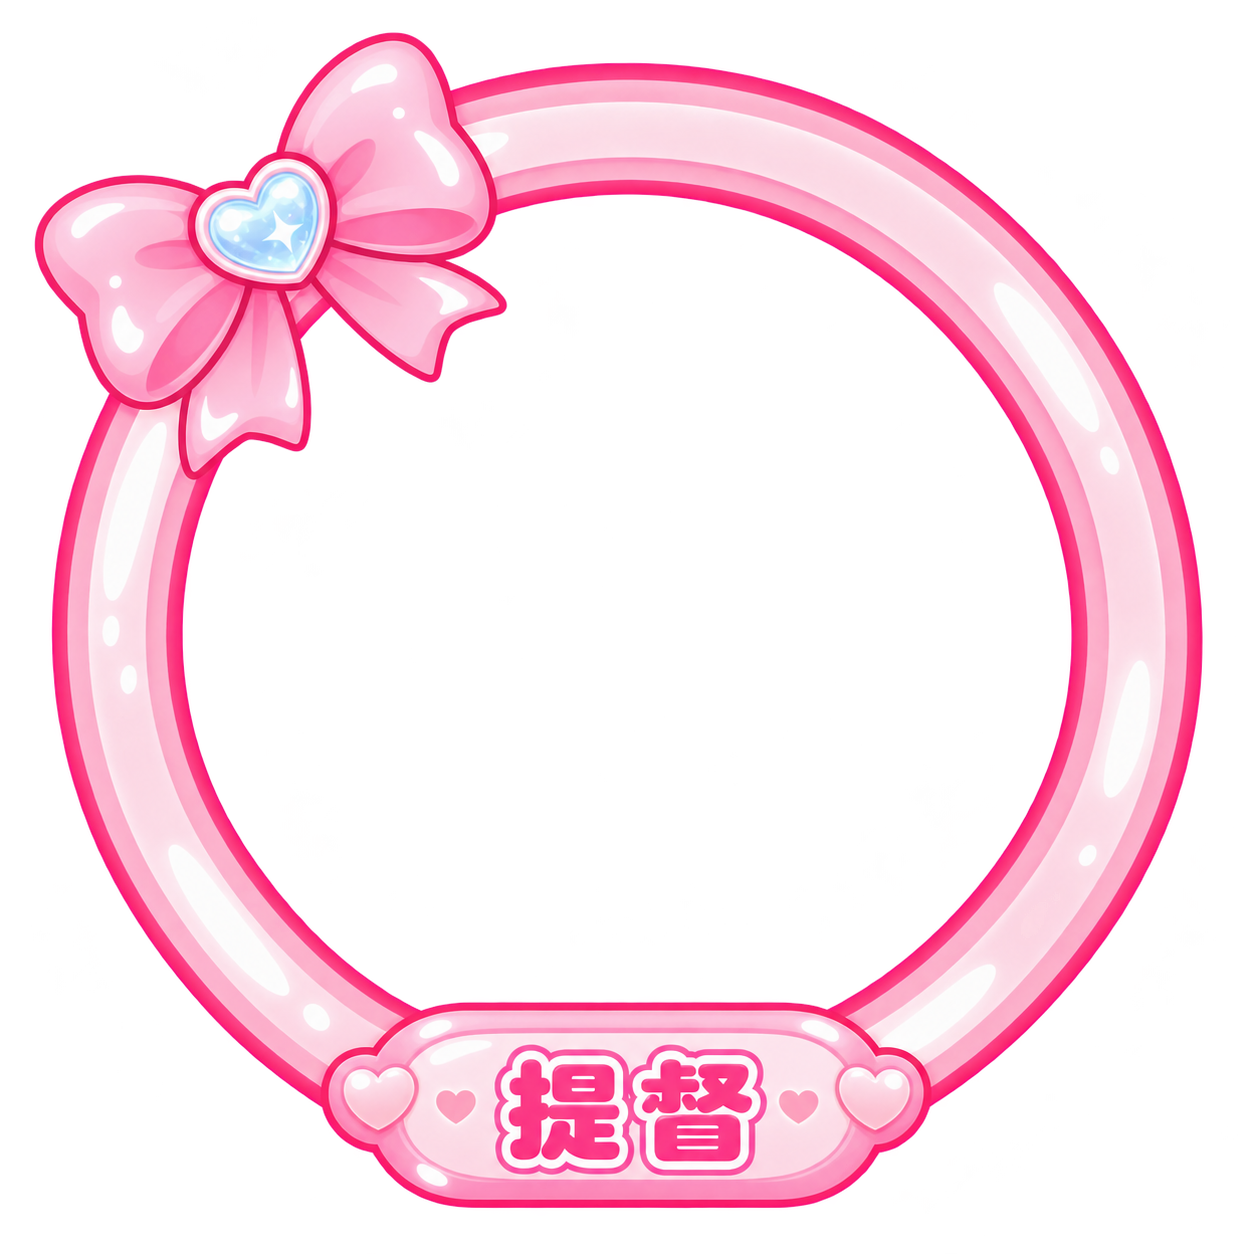
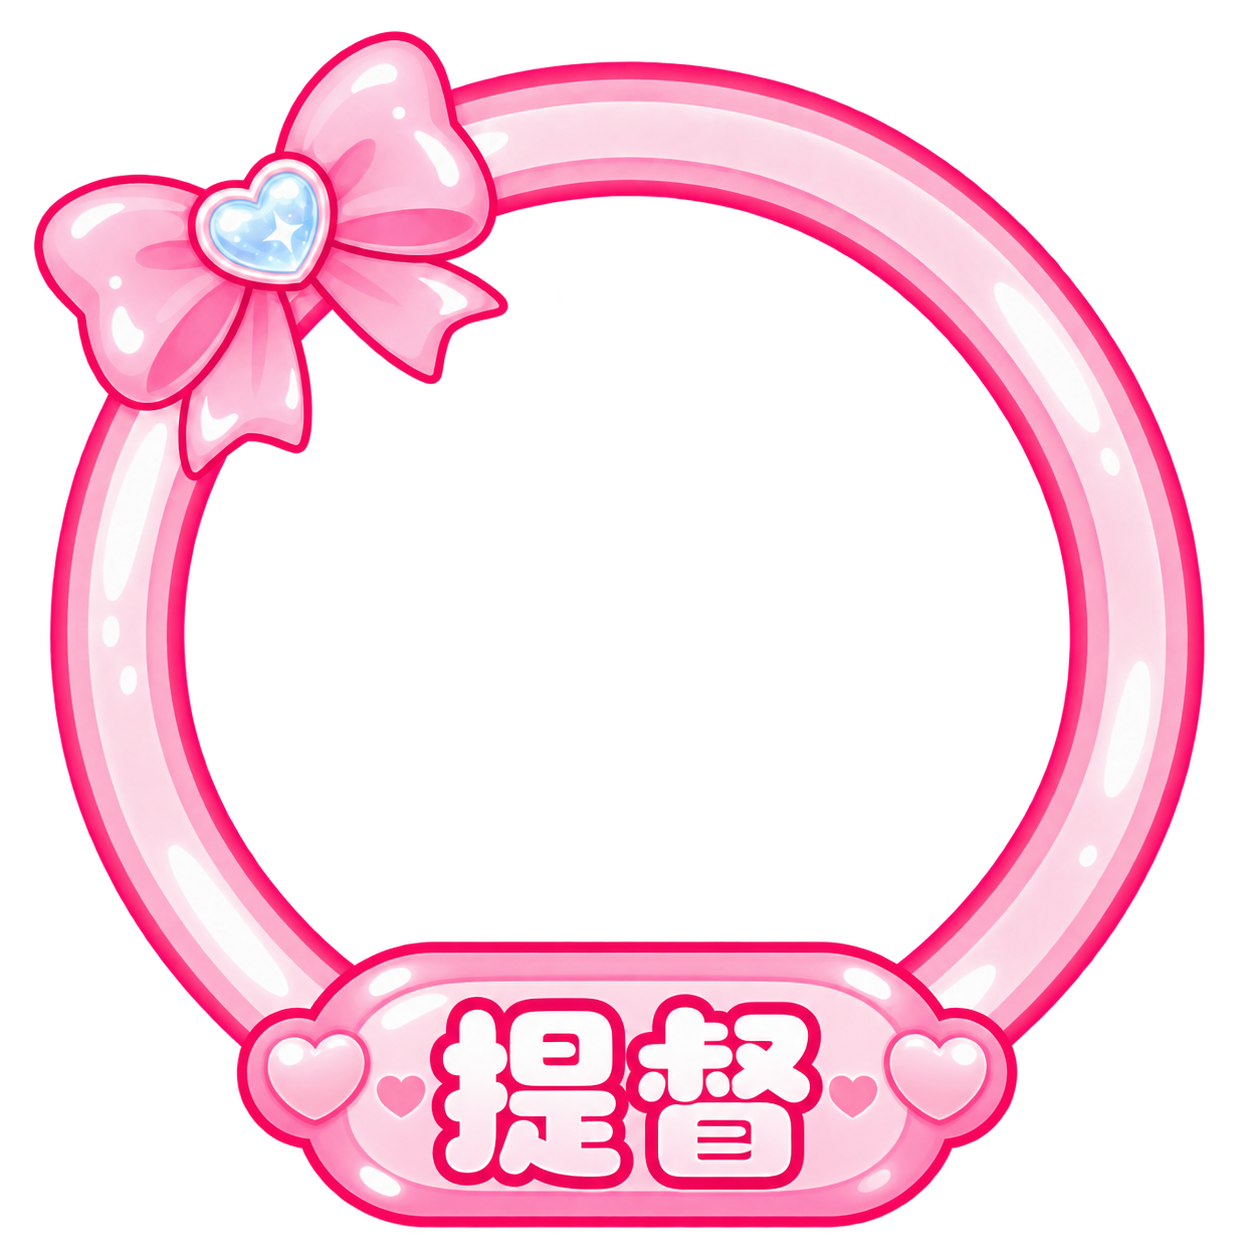
feat: 新增远程模版 dudu-pink-dolphin.css（脱敏版），字体换为荆南圆体
- 新增 dudu-pink-dolphin.css：粉色弹幕气泡远程模版，含顶部用户名名牌、
  按大航海等级切换的头像装饰框、弹幕进入动效、用户名统一配色
- 素材引用改为相对路径（脱敏）；发布用的回填版存于 .git-publish/（已 gitignore）
- 字体由 ZCOOL KuaiLe 换为荆南圆体（ZeoSeven 在线分包），补充日文回退
- 更新 jz/td/zd 头像装饰框
- README 同步字体说明

diff --git a/dudu-pink-dolphin.css b/dudu-pink-dolphin.css
@@ -1,6 +1,17 @@
+/*
+  @title        海豚也是豚
+  @description  粉色弹幕气泡：自适应正文框 + 顶部用户名名牌，荆南圆体，中英日字体，蝴蝶结/珠链/糖果角标，按大航海等级切换头像装饰框
+  @author       JoJoWu
+  @updated      September 09, 2026, 10:20:44 PM GMT+8
+  @version      1.0.14
+*/
+
+/* 引入荆南圆体（ZeoSeven Fonts 在线分包，SIL OFL 1.1） */
+/* @import 不要嵌套在 @layer 层叠层内 */
 @import url("https://fontsapi.zeoseven.com/850/main/result.css");
+
 /* ===== 留白微调：数值越小，文字越靠近边框 ===== */
-@layer custom-css {
+@layer remote-css {
   .event--message {
     --nameplate-scale: 1; /* 名牌及名字同步缩放：0.9缩小，1.1放大 */
     --nameplate-width: 210px; /* 名牌基础宽度，长名字省略 */
@@ -11,14 +22,15 @@
     --avatar-offset-y: 12px; /* 头像距本条顶部 */
     --nameplate-offset-y: 4px; /* 名牌上下偏移：正数向下，负数向上 */
     --text-space-top: 35px;    /* 正文上方留白 */
-    --text-space-bottom: 25px; /* 正文下方留白 */
-    --text-space-left: 54px;   /* 正文左侧留白 */
-    --text-space-right: 54px;  /* 正文右侧留白 */
+    --text-space-bottom: 30px; /* 正文下方留白 */
+    --text-space-left: 30px;   /* 正文左侧留白 */
+    --text-space-right: 30px;  /* 正文右侧留白 */
     --text-line-height: 1.45;  /* 多行文字行距，无单位 */
   }
 }
-/* 仅装饰弹幕正文。请用本文件替换旧版 CSS。 */
-@layer custom-css {
+
+/* 仅装饰弹幕正文。 */
+@layer remote-css {
   .event--message > .message {
     --bubble-radius: 32px;
     --bubble-border: 9px;
@@ -44,7 +56,8 @@
     box-shadow: 0 0 0 1px #ffffffdd, 0 2px 4px #bb3e6b2e,
       inset 0 0 0 2px #ffdbe9cc, inset 0 0 0 3px #ffffffe6,
       inset 3px 0 5px #ffffff88, inset 0 -3px 4px #db528233 !important;
-    color: #795064;
+    /* 弹幕正文字色：统一使用平台 SCAS 色盘 pink-500；兜底值 #f6339a 防止变量未定义时塌成默认色 */
+    color: var(--color-pink-500, #f6339a);
     font-family: "KeinannMaruPOP", "Microsoft YaHei", "Yu Gothic", "Meiryo", sans-serif !important;
     font-weight: 400;
     line-height: var(--text-line-height);
@@ -87,14 +100,8 @@
   }
 }
 
-
-
-
-
-
-
 /* 名牌绑定真实用户名，定位在正文框上沿中央 */
-@layer custom-css {
+@layer remote-css {
   .event--message > .meta {
     position: relative;
     display: flex;
@@ -134,7 +141,8 @@
     overflow: hidden;
     white-space: nowrap;
     text-overflow: ellipsis;
-    color: #a65379 !important;
+    /* 用户名颜色：四档统一，由下方 .event--message 上的 --dudu-name 定义 */
+    color: var(--dudu-name, #a65379) !important;
     font-weight: 400;
     line-height: 1.3;
   }
@@ -156,8 +164,9 @@
   .event--message > .meta > .username::before { left: -9px; }
   .event--message > .meta > .username::after { right: -9px; }
 }
+
 /* 左头像、右正文；1=总督，2=提督，3=舰长，0=水友 */
-@layer custom-css {
+@layer remote-css {
   .event--message {
     display: grid !important;
     grid-template-columns: var(--avatar-frame-size) minmax(0, 1fr);
@@ -167,10 +176,13 @@
     box-sizing: border-box;
     padding: 0 !important;
     --custom-avatar-frame: url("./assets/avatar/base.png");
+    /* 用户名颜色：四个档位统一用奶茶棕 #826B65（名牌底上 4.67:1，清晰可读） */
+    --dudu-name: #826b65;
   }
-  .event--message.guard-level--3 { --custom-avatar-frame: url("./assets/avatar/jz.png"); }
-  .event--message.guard-level--2 { --custom-avatar-frame: url("./assets/avatar/td.png"); }
-  .event--message.guard-level--1 { --custom-avatar-frame: url("./assets/avatar/zd.png"); }
+  /* 本文件为脱敏版（相对路径）。发布到远程模版时把素材地址换成绝对 URL，并给头像框加 ?v= 版本参数：换图后递增，客户端才会重新拉取 */
+  .event--message.guard-level--3 { --custom-avatar-frame: url("./assets/avatar/jz.png"); } /* 舰长 */
+  .event--message.guard-level--2 { --custom-avatar-frame: url("./assets/avatar/td.png"); } /* 提督 */
+  .event--message.guard-level--1 { --custom-avatar-frame: url("./assets/avatar/zd.png"); } /* 总督 */
   .event--message > .meta { display: contents !important; }
   .event--message > .message { grid-column: 2; grid-row: 1; }
   .event--message > .meta > :not(.sender-avatar):not(.username),
@@ -235,5 +247,29 @@
     max-width: calc(100% - var(--avatar-frame-size) - var(--avatar-text-gap) - 160px);
     transform: translateX(-50%) scale(var(--nameplate-scale));
     transform-origin: center;
+  }
+}
+
+/* ===== 弹幕进入动效：从左向右滑入 + 淡入 =====
+   只在事件速率低于弹幕机阈值时播放（此时事件列表带 .can-motion）；
+   速率过高或控制台模式下平台改用 .reduced-motion，动画不播放，弹幕保持静态可读。
+   想调整幅度改 translateX 的 -32px，想调整快慢改 --animation-duration 的兜底值。 */
+@layer remote-css {
+  .can-motion .event--message {
+    animation-name: dudu-enter-left;
+    animation-duration: var(--animation-duration, 320ms);
+    animation-timing-function: cubic-bezier(0.22, 0.61, 0.36, 1);
+    animation-fill-mode: both;
+  }
+
+  @keyframes dudu-enter-left {
+    from {
+      opacity: 0;
+      transform: translateX(-32px);
+    }
+    to {
+      opacity: 1;
+      transform: translateX(0);
+    }
   }
 }
